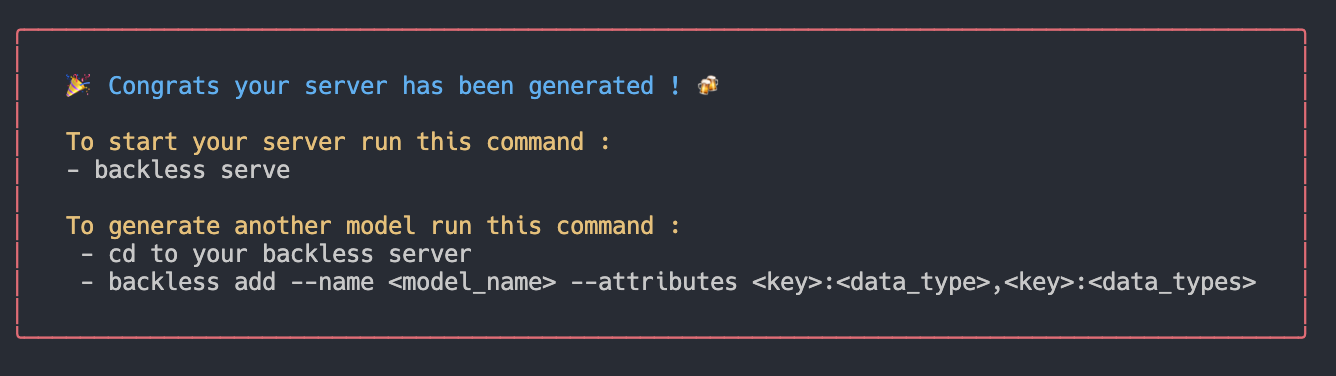
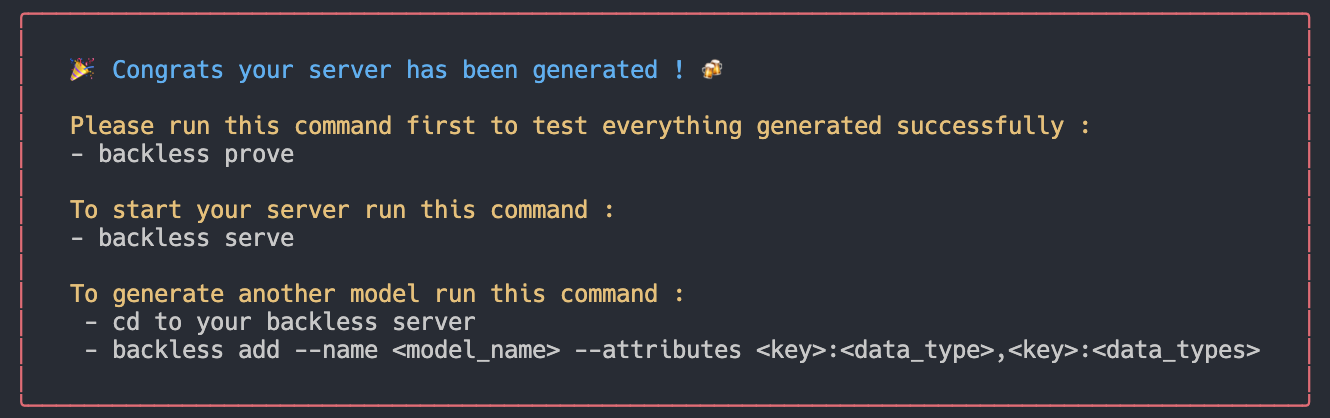
Upgrading Documentation

Changed region(s): [[0.0, 0.0293, 0.9865, 0.9069], [0.0, 0.9654, 0.9865, 0.9947]]

diff --git a/README.md b/README.md
@@ -16,6 +16,7 @@
 ## Table of Contents
 * [Pre-requisite](#Pre-requisite)
 * [Installation](#installation)
+* [Help](#help)
 * [Version](#version)
 * [Updating](#update)
 * [Usage](#usage)
@@ -41,6 +42,19 @@ $ npm install -g backless
 ```shell
 $ npx backless create
 ```
+
+## Help
+
+#### To see all the command lines in our package, you can using this command
+
+```shell
+$ backless --help
+```
+#### And you will found this text below
+
+![Help](./src/assets/help.png)
+
+
 ## Version
 
 #### If you installed globally make sure you've already installed Backless Js correctly using this command 
@@ -104,6 +118,62 @@ $ backless create
 
 ### And Voilaa.... your server is ready to use !
 ![finish](./src/assets/finish.png)
+
+
+## Backless Command
+
+### Backless Prove
+##### This options is a command to run all testing file. by use this command
+
+```shell
+$ backless prove
+```
+##### You will found this text message
+
+![Prove](./src/assets/prove.png)
+
+##### All you have to do is to wait for a moment till this text message show up.
+
+![DoneProve](./src/assets/doneProve.png)
+
+##### Note: This message will show up by assuming that you're not changes anything in our package file.
+
+BUT
+
+##### If you want to customize your own server and there is an error, you will found this text below.
+
+![ErrorProve](./src/assets/errorProve.png)
+
+##### So, don't forget to customize all of related file to prevent the error.
+
+##### You also can run testing by move into your server's file and run this command in your terminal. 
+
+```shell
+$ npm run test
+```
+
+OR
+
+```shell
+$ npm test
+```
+
+### Backless Serve
+
+##### You can running the server by using this command in your terminal
+
+```shell
+$ backless serve
+```
+##### You will found this text after you running the server by using command above
+
+![ErrorProve](./src/assets/serve.png)
+
+##### You also can use this command to run the server
+
+```shell
+$ npm run dev
+```
 
 ## Add Another Models
 
